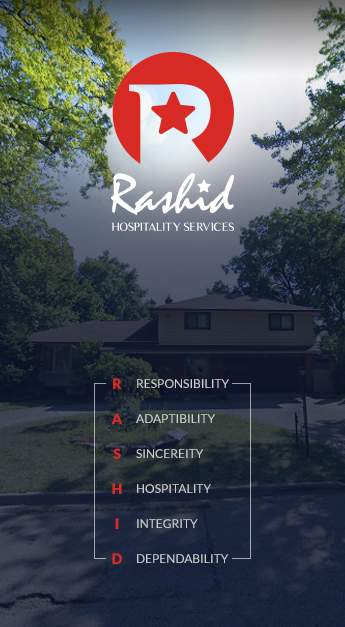
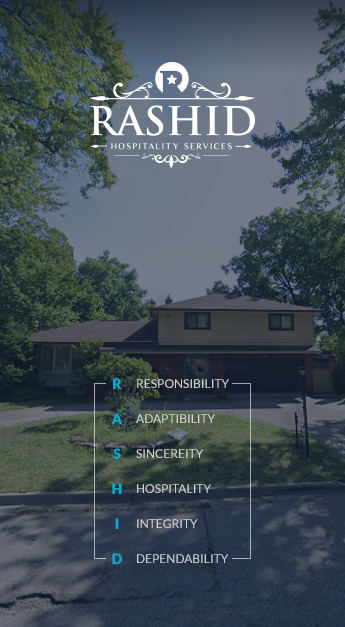
y

diff --git a/index.html b/index.html
@@ -58,11 +58,11 @@
           <div class="mask"></div>
         </div>
 
-        <div class="site-title-block">
+        <!-- <div class="site-title-block">
           <a href="index.html" class="site-logo">
             <img src="images/testimonials/logo.png" alt="">
           </a>
-        </div>
+        </div> -->
 
         <a class="menu-toggle mobile-visible">
           <i class="fa fa-bars"></i>
